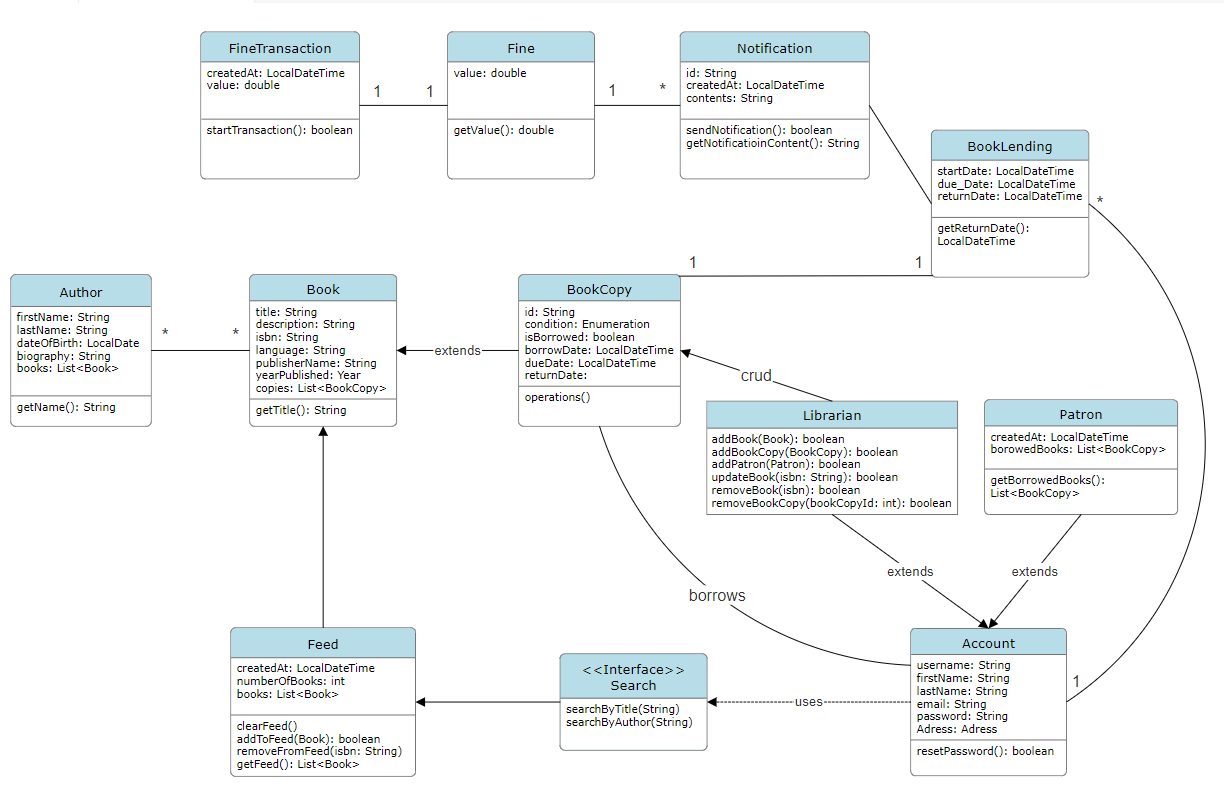
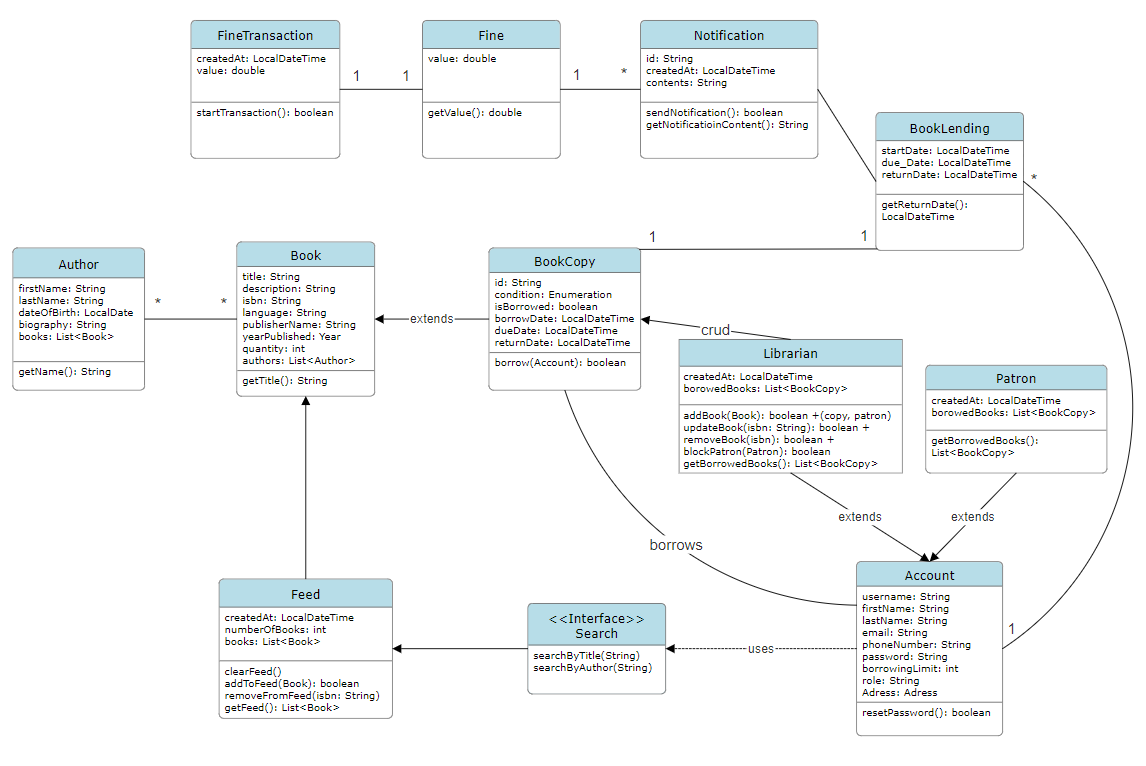
added final touches to class diagram presentation

diff --git a/README.md b/README.md
@@ -75,3 +75,41 @@ I considered the following:
 
 ## Class Diagram Design
 
+![Class Diagram](assets/classDiagram.png)
+
+### 📚 Book Basics
+- **Book**: Each book has a title, description, ISBN, language, publisher, publication year, and a quantity (how many copies are available).
+- **BookCopy**: Think of these as the actual physical copies of the book. They have a unique ID, condition, and status (borrowed or not). You can borrow and return these copies.
+  - **Relationships**:
+    - A book can have multiple copies (BookCopy).
+    - A unique BookCopy can be borrowed by an Account, but multiple Accounts can't borrow the same BookCopy.
+
+### 📝 Author Details
+- **Author**: These are the cool people who write books. We know their first and last names, birthdate, a short bio, and the list of books they've written.
+  - **Relationships**:
+    - An Author can write multiple books.
+    - A Book can have multiple authors.
+
+### 🧑💻 User Details
+- **Account**: Users who borrow books. They have a username, personal info, and an address. An Account can have the role of Librarian or Patron. The librarian can borrow books too, because I'm biased and I want them to have perks like bigger borrowing limit or more available time for returning the books ;)
+
+### 📆 Keeping Track of Books
+- **BookLending**: Tracks when a book was borrowed, when it's due, and when it's returned.
+- **Notification**: Sends friendly messages to users about due dates, fines, and other updates.
+- **Fine and Transaction**: Handles fines and transactions associated with late returns.
+  - **Relationships**:
+    - If a BookCopy isn't returned on time, the associated Account will be fined and notified.
+
+### 📚 Library Management
+- **Librarian**: They can manage books, book copies, and users. They handle fines and transactions too.
+- **Patron**: Everyday users who borrow books. They have a joining date and a list of borrowed books.
+
+### 🔍 Searching and Feed
+- **Search Interface**: Helps you find books by title or author.
+  - **Relationships**:
+    - Users (Accounts) use the Search Interface to search for a book.
+- **Feed**: Like a news feed, but for books! It shows what the user is looking for.
+  - **Relationships**:
+    - The Feed class populates the eventual page with exciting books.
+
+
